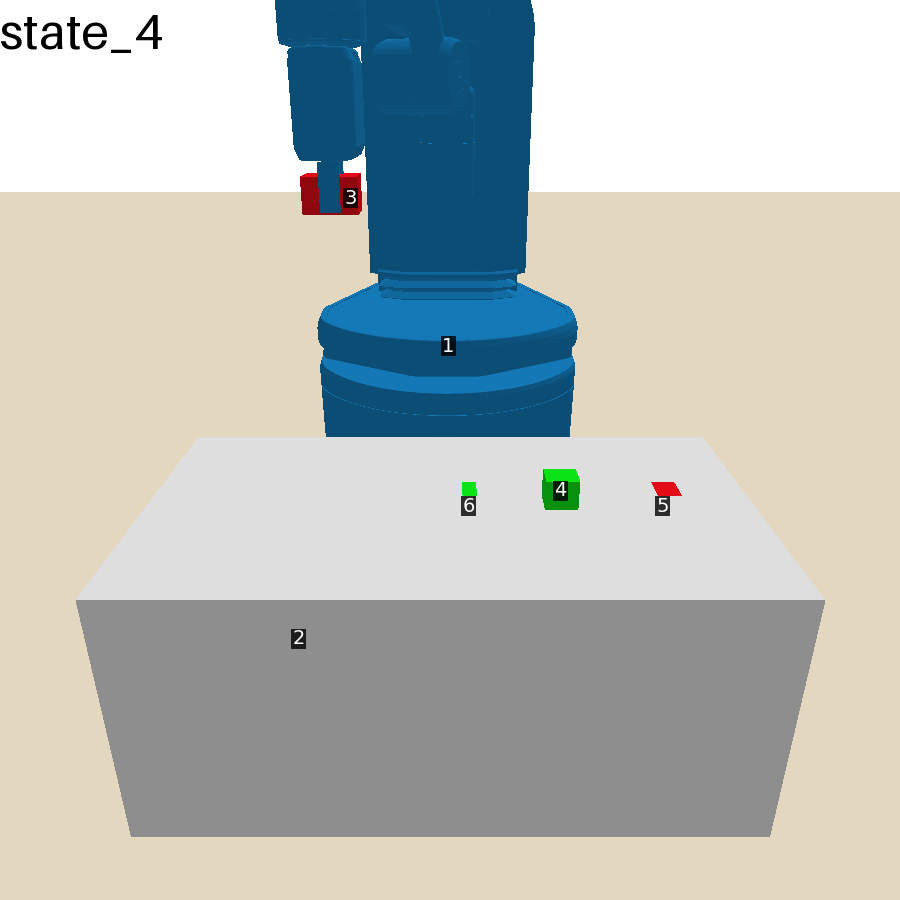
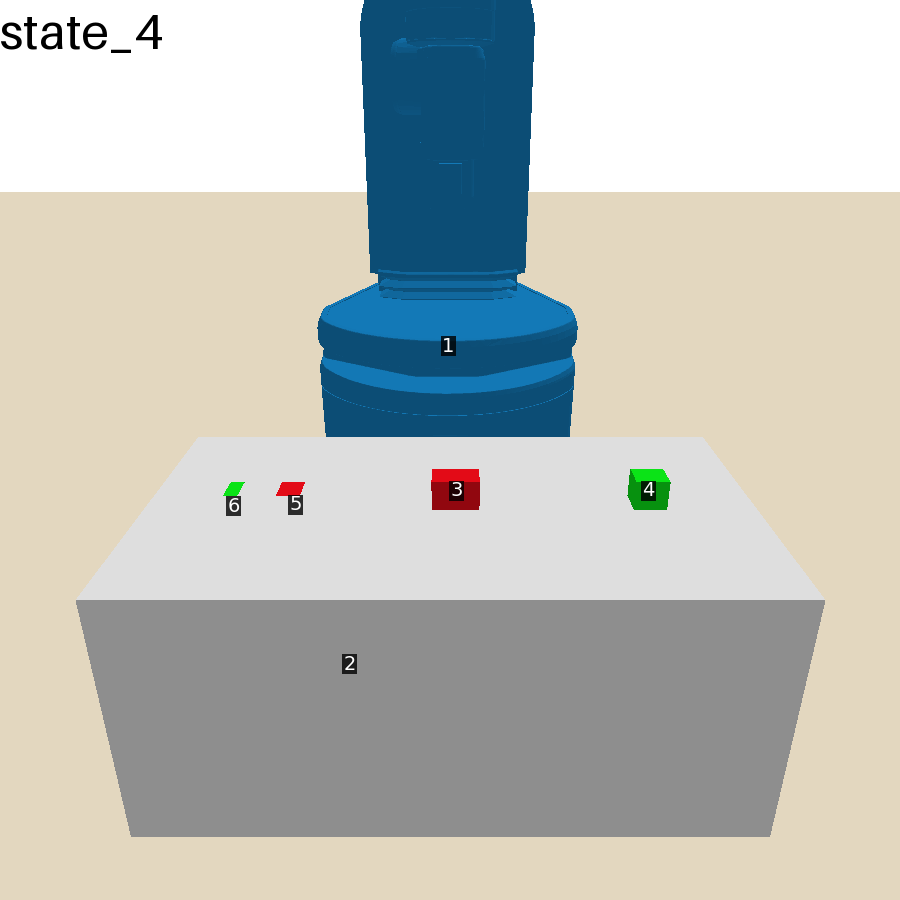
cover no working..

diff --git a/predicators/ground_truth_models/cover/options.py b/predicators/ground_truth_models/cover/options.py
@@ -1,6 +1,7 @@
 """Ground-truth options for the cover environment."""
 
-from typing import ClassVar, Dict, List, Sequence, Set, Tuple
+from typing import ClassVar, Dict, List, Sequence, Set, Tuple, Callable
+import logging
 
 import numpy as np
 from gym.spaces import Box
@@ -181,6 +182,7 @@ class CoverTypedOptionsGroundTruthOptionFactory(GroundTruthOptionFactory):
 
         block_type = types["block"]
         target_type = types["target"]
+        Covers = predicates["Covers"]
 
         def _Pick_policy(s: State, m: Dict, o: Sequence[Object],
                          p: Array) -> Action:
@@ -214,15 +216,16 @@ class CoverTypedOptionsGroundTruthOptionFactory(GroundTruthOptionFactory):
                     ("cover_typed_options", "pybullet_cover_typed_options")):
                 place_pose = state.get(objects[0], "pose_y_norm")
                 place_pose = min(max(place_pose, 0.0), 1.0)
+                # logging.debug(f"Placing at {place_pose}")
                 return Action(np.array([place_pose], dtype=np.float32))
             else:
                 return Action(params)  # action is simply the parameter
 
+        # when used in the option model pybullet_cover_typed_options
         place_types = [block_type, target_type]
-        if CFG.env in ("cover_typed_options", 
-                       "pybullet_cover_typed_options"):
-            # when used in the option model pybullet_cover_typed_options
+        if CFG.env in ("cover_typed_options"):
             place_types = [target_type]
+
         Place = utils.SingletonParameterizedOption(
             "Place",
             _Place_policy,  # use the parent class's policy
@@ -419,6 +422,7 @@ class PyBulletCoverGroundTruthOptionFactory(GroundTruthOptionFactory):
         # This could lead to slippage or bad grasps, but we haven't seen this
         # in practice, so we'll leave it as is instead of changing the State.
         HandEmpty = predicates["HandEmpty"]
+        Covers = predicates["Covers"]
         toggle_fingers_func = lambda s, _1, _2: (
             (pybullet_robot.open_fingers, pybullet_robot.closed_fingers)
             if HandEmpty.holds(s, []) else
@@ -463,6 +467,15 @@ class PyBulletCoverGroundTruthOptionFactory(GroundTruthOptionFactory):
         option_types = [block_type]
         params_space = Box(0, 1, (0 if CFG.cover_typed_options_no_sampler else
                                   1, ))
+        def pick_initiable(state: State, m: Dict, o: Sequence[Object],
+                            p: Array) -> bool:
+            del p
+            block, = o
+            if HandEmpty.holds(state, []):
+                return True
+            else:
+                return False
+
         Pick = utils.LinearChainParameterizedOption(
             "Pick",
             [
@@ -474,7 +487,9 @@ class PyBulletCoverGroundTruthOptionFactory(GroundTruthOptionFactory):
                     predicates=predicates,
                     types=types,
                     option_types=option_types,
-                    params_space=params_space),
+                    params_space=params_space,
+                    # initiable=pick_initiable,
+                    ),
                 # Move down to pick.
                 cls._create_cover_move_to_above_option(
                     name="MoveEndEffectorToPose",
@@ -489,7 +504,8 @@ class PyBulletCoverGroundTruthOptionFactory(GroundTruthOptionFactory):
                     pybullet_robot, "ToggleFingers", 
                     option_types,
                     params_space,
-                    toggle_fingers_func,
+                    lambda s, _1, _2: ((pybullet_robot.open_fingers, 
+                                        pybullet_robot.closed_fingers)),
                     CFG.pybullet_max_vel_norm, PyBulletCoverEnv.grasp_tol),
                 # Move back up.
                 cls._create_cover_move_to_above_option(
@@ -503,13 +519,25 @@ class PyBulletCoverGroundTruthOptionFactory(GroundTruthOptionFactory):
             ]
         )
         # Place
-        option_types = [target_type]
+        option_types = [block_type, target_type]
         params_space = Box(0, 1, (0 if CFG.cover_typed_options_no_sampler else
                                   1, ))
+
+        def place_initiable(state: State, m: Dict, o: Sequence[Object],
+                            p: Array) -> bool:
+            del p
+            block, target = o
+            # if HandEmpty.holds(state, []):
+            #     return False
+            for block in state.get_objects(block_type):
+                if Covers.holds(state, [block, target]):
+                    return False
+            return True
+
         Place = utils.LinearChainParameterizedOption(
             "Place",
             [
-                # Move to far above the location we will pick.
+                # Move to far above the location we will place.
                 cls._create_cover_move_to_above_option(
                     name="MoveEndEffectorToPrePose",
                     pybullet_robot=pybullet_robot,
@@ -517,7 +545,9 @@ class PyBulletCoverGroundTruthOptionFactory(GroundTruthOptionFactory):
                     predicates=predicates,
                     types=types,
                     option_types=option_types,
-                    params_space=params_space),
+                    params_space=params_space,
+                    # initiable=place_initiable,
+                    ),
                 # Move down to pick.
                 cls._create_cover_move_to_above_option(
                     name="MoveEndEffectorToPose",
@@ -532,7 +562,8 @@ class PyBulletCoverGroundTruthOptionFactory(GroundTruthOptionFactory):
                     pybullet_robot, "ToggleFingers", 
                     option_types,
                     params_space,
-                    toggle_fingers_func,
+                    lambda s, _1, _2: ((pybullet_robot.closed_fingers, 
+                                        pybullet_robot.open_fingers)),
                     CFG.pybullet_max_vel_norm, PyBulletCoverEnv.grasp_tol),
                 # Move back up.
                 cls._create_cover_move_to_above_option(
@@ -560,7 +591,9 @@ class PyBulletCoverGroundTruthOptionFactory(GroundTruthOptionFactory):
         cls, name: str, pybullet_robot: SingleArmPyBulletRobot,
         target_z: float, predicates: Dict[str, Predicate],
         types: Dict[str, Type], option_types: List[Type], 
-        params_space: Box) -> ParameterizedOption:
+        params_space: Box, initiable: Callable[[State, Dict, 
+            Sequence[Object], Array], bool] = lambda s, m, o, p: True
+        ) -> ParameterizedOption:
         """Create a ParameterizedOption for moving to above a block."""
         HandEmpty = predicates["HandEmpty"]
         robot_type = types["robot"]
@@ -572,7 +605,7 @@ class PyBulletCoverGroundTruthOptionFactory(GroundTruthOptionFactory):
             del params
             # assert not params
             # the object can either be a block or a target
-            object, = objects
+            object = objects[-1]
             robot, = state.get_objects(robot_type)
             hand = state.get(robot, "pose_y_norm")
             # De-normalize hand feature to actual table coordinates.
@@ -598,20 +631,15 @@ class PyBulletCoverGroundTruthOptionFactory(GroundTruthOptionFactory):
             pybullet_robot, name, option_types, params_space,
             _get_current_and_target_pose_and_finger_status,
             cls._move_to_pose_tol, CFG.pybullet_max_vel_norm,
-            cls._finger_action_nudge_magnitude)
+            cls._finger_action_nudge_magnitude, initiable)
 
 
-    # @classmethod
-    # def _create_cover_move_to_above_target_option(
-    #     cls, name: str, pybullet_robot: SingleArmPyBulletRobot,
-    #     target_z: float, predicates: Dict[str, Predicate],
-    #     types: Dict[str, Type]) -> ParameterizedOption:
-    #     """Create a ParameterizedOption for moving to above a block."""
     @classmethod
     def _create_cover_move_option(
             cls, name: str, pybullet_robot: SingleArmPyBulletRobot,
             target_z: float, predicates: Dict[str, Predicate],
-            types: Dict[str, Type]) -> ParameterizedOption:
+            types: Dict[str, Type],
+            ) -> ParameterizedOption:
         """Creates a ParameterizedOption for moving to a pose in Cover."""
         option_types: Sequence[Type] = []
         params_space = Box(0, 1, (1, ))

diff --git a/predicators/envs/pybullet_cover.py b/predicators/envs/pybullet_cover.py
@@ -302,9 +302,14 @@ class PyBulletCoverEnv(PyBulletEnv, CoverEnv):
                         max(CFG.cover_target_widths))
 
         # Get robot state.
-        rx, ry, rz, _, _, _, _, _ = self._pybullet_robot.get_state()
+        rx, ry, rz, _, _, _, _, rf = self._pybullet_robot.get_state()
+        fingers = self._fingers_joint_to_state(rf)
         hand = (ry - self.y_lb) / (self.y_ub - self.y_lb)
-        state_dict[self._robot] = np.array([hand, rx, rz], dtype=np.float32)
+        if "hand_empty" in self._robot_type.feature_names:
+            state_dict[self._robot] = np.array([hand, rx, rz, fingers],
+                                               dtype=np.float32)
+        else:
+            state_dict[self._robot] = np.array([hand, rx, rz], dtype=np.float32)
         joint_positions = self._pybullet_robot.get_joints()
 
         # Get block states.
@@ -367,16 +372,31 @@ class PyBulletCoverEnv(PyBulletEnv, CoverEnv):
         tasks = super()._get_tasks(num, rng)
         return self._add_pybullet_state_to_tasks(tasks)
 
+    def _fingers_joint_to_state(self, fingers_joint: float) -> float:
+        """Convert the finger joint values in PyBullet to values for the State.
+
+        The joint values given as input are the ones coming out of
+        self._pybullet_robot.get_state().
+        """
+        open_f = self._pybullet_robot.open_fingers
+        closed_f = self._pybullet_robot.closed_fingers
+        # Fingers in the State should be either 0 or 1.
+        return int(fingers_joint > (open_f + closed_f) / 2)
+
+
 class PyBulletCoverTypedOptionEnv(PyBulletCoverEnv):
 
     # Types
     bbox_features = ["bbox_left", "bbox_right", "bbox_upper", "bbox_lower"]
     _block_type = Type("block",
-                       ["is_block", "is_target", "width", "pose_y_norm", "grasp"]+
-                       bbox_features)
-    _target_type = Type("target", ["is_block", "is_target", "width", "pose_y_norm"]+
-                        bbox_features)
-    _robot_type = Type("robot", ["pose_y_norm", "pose_x", "pose_z"]+bbox_features)
+                    ["is_block", "is_target", "width", "pose_y_norm", "grasp"] +
+                    bbox_features)
+    _target_type = Type("target", 
+                    ["is_block", "is_target", "width", "pose_y_norm"] +
+                    bbox_features)
+    _robot_type = Type("robot", 
+                    ["pose_y_norm", "pose_x", "pose_z", "hand_empty"] +
+                    bbox_features)
     _table_type = Type("table", bbox_features)
 
     def __init__(self, use_gui: bool = True) -> None:   

diff --git a/predicators/envs/cover.py b/predicators/envs/cover.py
@@ -42,7 +42,7 @@ class CoverEnv(BaseEnv):
     _target_type = Type("target", 
                     ["is_block", "is_target", "width", "pose_y_norm"] +
                         bbox_features)
-    _robot_type = Type("robot", ["pose_y_norm", "pose_x", "pose_z"] +
+    _robot_type = Type("robot", ["pose_y_norm", "pose_x", "pose_z", "hand_empty"] +
                         bbox_features)
     _table_type = Type("table", bbox_features)
 
@@ -52,12 +52,12 @@ class CoverEnv(BaseEnv):
 
         # Predicates
         self._IsBlock = Predicate("IsBlock", [self._block_type],
-                                  self._IsBlock_holds)
+                                self._IsBlock_holds)
         self._IsTarget = Predicate("IsTarget", [self._target_type],
-                                   self._IsTarget_holds)
+                                self._IsTarget_holds)
         self._Covers = Predicate("Covers",
-                                 [self._block_type, self._target_type],
-                                 self._Covers_holds)
+                                [self._block_type, self._target_type],
+                                self._Covers_holds)
         # IsClear(y) is Forall x:box. not Covers(x, y) -- quantify all but one
         self._Holding = Predicate("Holding", [self._block_type],
                                   self._Holding_holds)
@@ -88,8 +88,10 @@ class CoverEnv(BaseEnv):
             if state.get(block, "grasp") != -1:
                 assert held_block is None
                 held_block = block
-            block_lb = state.get(block, "pose_y_norm") - state.get(block, "width") / 2
-            block_ub = state.get(block, "pose_y_norm") + state.get(block, "width") / 2
+            block_lb = state.get(block, "pose_y_norm") - state.get(block, 
+                        "width") / 2
+            block_ub = state.get(block, "pose_y_norm") + state.get(block, 
+                        "width") / 2
             if state.get(block,
                          "grasp") == -1 and block_lb <= pose <= block_ub:
                 assert above_block is None

diff --git a/predicators/ground_truth_models/cover/nsrts.py b/predicators/ground_truth_models/cover/nsrts.py
@@ -204,10 +204,12 @@ class CoverGroundTruthNSRTFactory(GroundTruthNSRTFactory):
         elif env_name == "bumpy_cover":
             option = Place
             option_vars = [block, target]
-        elif env_name in ("cover_typed_options", 
-                          "pybullet_cover_typed_options"):
+        elif env_name in ("cover_typed_options"):
             option = Place
             option_vars = [target]
+        elif env_name in ("pybullet_cover_typed_options"):
+            option = Place
+            option_vars = [block, target]
         elif env_name == "cover_place_hard":
             option = Place
             option_vars = [block, target]
@@ -291,7 +293,6 @@ class CoverGroundTruthNSRTFactory(GroundTruthNSRTFactory):
                         state.get(t, "pose_y_norm") - state.get(t, "width") / 10)
                     ub = float(
                         state.get(t, "pose_y_norm") + state.get(t, "width") / 10)
-                logging.debug(f"Place sampler: lb={lb}, ub={ub}")
                 lb = max(lb, 0.0)
                 ub = min(ub, 1.0)
                 return np.array(rng.uniform(lb, ub, size=(1, )),

diff --git a/predicators/pybullet_helpers/controllers.py b/predicators/pybullet_helpers/controllers.py
@@ -92,7 +92,9 @@ def create_move_end_effector_to_pose_option(
     move_to_pose_tol: float,
     max_vel_norm: float,
     finger_action_nudge_magnitude: float,
-) -> ParameterizedOption:
+    initiable: Callable[[State, Sequence[Object], Array], bool] =\
+        lambda _1, _2, _3, _4: True
+    ) -> ParameterizedOption:
     """A generic utility that creates a ParameterizedOption for moving the end
     effector to a target pose, given a function that takes in the current
     state, objects, and parameters, and returns the current pose and target
@@ -180,7 +182,7 @@ def create_move_end_effector_to_pose_option(
                                types=types,
                                params_space=params_space,
                                policy=_policy,
-                               initiable=lambda _1, _2, _3, _4: True,
+                               initiable=initiable,
                                terminal=_terminal)
 
 

diff --git a/predicators/planning.py b/predicators/planning.py
@@ -611,8 +611,11 @@ def run_low_level_search(
             try:
                 # if skeleton[0].name == "MoveWhenFacingOneStack":
                 #     breakpoint()
-                next_state, num_actions = \
+                try:
+                    next_state, num_actions = \
                     option_model.get_next_state_and_num_actions(state, option)
+                except:
+                    breakpoint()
             except EnvironmentFailure as e:
                 can_continue_on = False
                 # Remember only the most recent failure.
